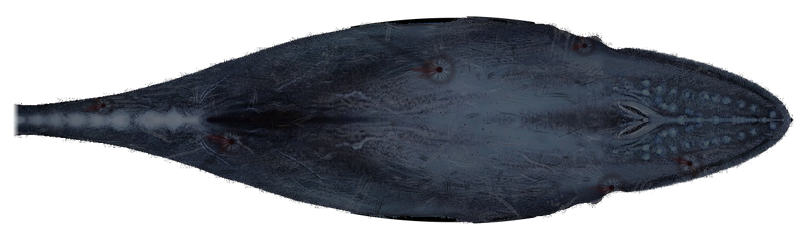
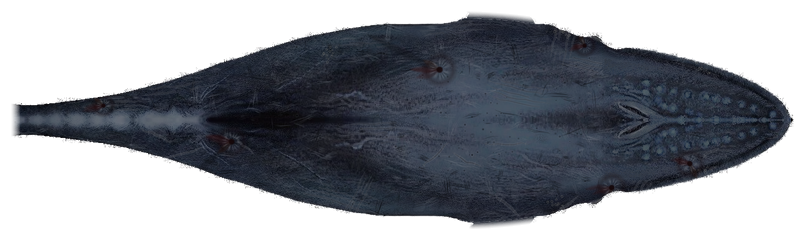
Void Whale: the Leviathan's fins and flukes blend into the body
The parts pipeline (scripts/leviathan-parts.py) now cuts the fin and fluke joins so they hold while the parts move:
- Under the fins the body edge is the real edge wherever the flank shows (the fit only across each fin's actual root,
  bent onto the real edge at both ends): the fitted curve used to sit 4-6 px outside the narrower flank behind the
  roots, and that band was filled opaque black (keyed-out background) - the dark notch / step on the body's edge.
- The edge band under each root is repainted with mirrored hide (shading taken out and put back, lit from above),
  which also runs into the fin's base; the body carries a fillet of the fin's base over the root instead of a hard
  straight line.
- Each fin carries a deep (24 ref px) strip of hide under its whole root, a little past its ends, so rowing never
  opens a gap or a dark sliver.
- The flukes: the stalk's shading continues past the root and eases into the flukes' (no tone step); the stalk part
  under the body is tapered by more than the sweep turns it; the body's stalk end fades over the join at the stalk's
  own width.
- The fin-through harpoon's entry sits 5 ref px inside the chipped trailing edge (the atlas is unchanged).
LEV_FIN_SWEEP / LEV_FLUKE_SWEEP exported from the rig; the void whale art test checks the rim under the fins is hide,
the root strips cover the rowing lift and the fluke stalk stays inside the stalk through the sweep. Render only.
[…]

diff --git a/game/src/render/leviathanParts.ts b/game/src/render/leviathanParts.ts
@@ -22,19 +22,19 @@ export interface LevPart {
 }
 
 export const LEV_PARTS: { finL: LevPart; finR: LevPart; fluke: LevPart } = {
-    finL: { url: '/art/leviathan/fin-left.png', w: 183, h: 147, ax: 0.7612, ay: 0.9215, rootX: 500.5, rootY: 20.3 },
-    finR: { url: '/art/leviathan/fin-right.png', w: 165, h: 148, ax: 0.7500, ay: 0.0748, rootX: 503.1, rootY: 219.3 },
+    finL: { url: '/art/leviathan/fin-left.png', w: 180, h: 156, ax: 0.7930, ay: 0.8666, rootX: 501.5, rootY: 19.9 },
+    finR: { url: '/art/leviathan/fin-right.png', w: 175, h: 156, ax: 0.7968, ay: 0.1265, rootX: 504.3, rootY: 220.4 },
     fluke: { url: '/art/leviathan/fluke.png', w: 187, h: 270, ax: 0.8855, ay: 0.4976, rootX: 20.0, rootY: 120.0 },
 };
 
 /** Body half-width (px) at u = k / 40 (0 the fluke root … 1 the snout tip). */
-export const LEV_HALF_PROFILE: readonly number[] = [17.33, 15.44, 19.54, 20.48, 22.37, 25.84, 29.93, 35.61, 40.65, 46.64, 54.83, 62.08, 67.12, 72.47, 80.98, 84.45, 87.91, 92.64, 95.63, 98.18, 100.01, 101.25, 101.82, 101.72, 100.94, 99.48, 97.41, 94.58, 91.38, 84.13, 83.5, 71.53, 71.84, 69.32, 64.91, 59.55, 53.57, 46.95, 38.76, 26.78, 0.0];
+export const LEV_HALF_PROFILE: readonly number[] = [17.33, 15.44, 19.54, 20.48, 22.37, 25.84, 29.93, 35.61, 40.65, 46.64, 54.83, 62.08, 67.12, 72.47, 80.98, 84.45, 87.91, 92.64, 93.95, 96.38, 95.79, 96.02, 96.74, 101.63, 101.69, 100.3, 98.3, 95.9, 91.38, 84.13, 83.5, 71.53, 71.84, 69.32, 64.91, 59.55, 53.57, 46.95, 38.76, 26.78, 0.0];
 
 /** Outlines (x0, y0, x1, y1, …; body texture px, unbent) of the fins and the flukes: the galaxy icon's shapes. */
 export const LEV_PART_OUTLINES: { finL: number[]; finR: number[]; fluke: number[] } = {
-    finL: [496.9, -36.5, 500.8, -29.7, 520.9, -13.9, 524.2, 2.1, 528.7, 25.7, 510.6, 29.6, 493.0, 27.7, 479.0, 26.8, 466.4, 11.5, 458.2, 4.7, 451.9, -1.4, 447.3, -7.8, 443.5, -13.5, 440.2, -19.0, 438.3, -24.8, 436.5, -30.6, 435.4, -36.5, 434.6, -42.8, 432.3, -50.7, 428.6, -61.8, 395.4, -107.6, 419.2, -107.2, 440.2, -99.8, 455.2, -92.9, 466.4, -83.0, 473.5, -71.8, 479.5, -67.9, 485.1, -64.4, 489.8, -59.8, 490.1, -52.3, 493.2, -47.6, 494.9, -42.2],
-    finR: [498.2, 276.2, 495.1, 282.1, 492.9, 287.5, 490.2, 292.6, 487.6, 298.1, 484.8, 304.9, 479.3, 309.0, 473.3, 314.5, 465.7, 323.2, 455.1, 329.2, 441.8, 334.0, 416.5, 349.8, 392.8, 349.1, 428.7, 300.9, 431.5, 290.4, 437.7, 281.8, 435.7, 276.2, 436.7, 270.5, 439.3, 265.3, 440.3, 259.3, 443.4, 253.9, 447.1, 248.4, 451.7, 242.5, 457.8, 236.5, 465.7, 229.7, 477.4, 217.4, 491.7, 213.4, 509.0, 211.4, 528.3, 213.6, 518.1, 241.2, 522.0, 252.9, 501.0, 269.2],
-    fluke: [39.1, 120.0, 38.9, 132.0, 17.4, 136.1, 7.7, 139.4, 1.9, 143.3, -3.1, 147.4, -8.0, 152.3, -13.6, 159.2, -21.4, 169.5, -35.0, 188.2, -64.3, 223.5, -109.2, 251.4, -121.8, 220.4, -119.5, 185.6, -109.6, 156.5, -96.4, 134.9, -72.4, 120.0, -96.4, 105.1, -109.2, 83.6, -119.5, 54.4, -121.5, 19.9, -108.3, -10.1, -64.1, 17.0, -35.0, 51.8, -21.4, 71.0, -13.6, 80.8, -8.0, 87.7, -3.3, 93.0, 1.2, 97.4, 7.3, 100.8, 16.0, 104.5, 38.9, 108.0],
+    finL: [499.5, -32.1, 505.3, -24.8, 525.3, -8.5, 525.5, 6.0, 535.7, 35.1, 514.4, 36.5, 496.1, 34.4, 481.8, 34.6, 468.5, 33.4, 460.9, 6.2, 454.7, 1.2, 449.9, -4.2, 447.0, -10.5, 442.7, -14.8, 439.9, -20.2, 438.1, -26.0, 437.0, -32.1, 434.2, -38.9, 433.0, -46.8, 431.9, -56.5, 393.9, -106.7, 417.7, -108.1, 440.4, -100.0, 457.4, -88.0, 468.5, -82.1, 476.1, -70.3, 482.7, -66.3, 487.7, -60.8, 489.7, -53.3, 492.6, -48.2, 495.3, -43.2, 496.5, -37.6],
+    finR: [497.7, 272.0, 496.6, 277.6, 492.7, 282.0, 493.2, 288.4, 490.2, 293.6, 488.4, 301.5, 483.4, 307.6, 476.3, 310.3, 468.7, 321.5, 457.8, 326.4, 442.8, 334.4, 417.6, 348.5, 391.2, 349.4, 435.0, 294.5, 433.1, 286.7, 434.3, 278.8, 437.2, 272.0, 438.3, 266.0, 440.0, 260.1, 442.9, 254.8, 446.4, 249.7, 450.6, 245.0, 456.6, 242.9, 461.0, 233.3, 468.7, 226.0, 481.6, 206.8, 495.7, 206.9, 513.7, 204.7, 535.8, 204.8, 525.6, 233.9, 524.6, 248.9, 506.4, 264.5],
+    fluke: [39.1, 120.0, 32.1, 130.6, 17.4, 136.1, 7.7, 139.4, 1.9, 143.3, -3.1, 147.4, -8.0, 152.3, -13.6, 159.2, -21.4, 169.5, -35.0, 188.2, -64.3, 223.5, -109.2, 251.4, -121.8, 220.4, -119.5, 185.6, -109.6, 156.5, -96.4, 134.9, -72.4, 120.0, -96.4, 105.1, -109.2, 83.6, -119.5, 54.4, -121.5, 19.9, -108.3, -10.1, -64.1, 17.0, -35.0, 51.8, -21.4, 71.0, -13.6, 80.8, -8.0, 87.7, -3.3, 93.0, 1.2, 97.4, 7.3, 100.8, 16.0, 104.5, 30.6, 109.7],
 };
 
 export interface LevGlowSpot {
@@ -221,7 +221,7 @@ export const LEV_HARPOONS: readonly LevHarpoon[] = [
     { part: 'body', x: 585.0, y: 46.0, ang: -2.0595, fx: 4, fy: 89, fw: 71, fh: 25, ax: 0.3152, ay: 0.5100, attach: 46.0, line: null },
     { part: 'body', x: 232.0, y: 142.0, ang: 2.4435, fx: 4, fy: 118, fw: 148, fh: 36, ax: 0.1734, ay: 0.5058, attach: 119.2, line: { fx: 4, fy: 158, fw: 170, fh: 8, len: 170 } },
     { part: 'body', x: 104.0, y: 106.0, ang: -2.4435, fx: 4, fy: 170, fw: 64, fh: 30, ax: 0.3326, ay: 0.5083, attach: 40.0, line: null },
-    { part: 'finL', x: 429.1, y: -61.5, ang: 3.2812, fx: 4, fy: 204, fw: 195, fh: 27, ax: 0.4915, ay: 0.5111, attach: 90.0, line: { fx: 4, fy: 235, fw: 118, fh: 8, len: 118 } },
+    { part: 'finL', x: 431.0, y: -61.3, ang: 3.2812, fx: 4, fy: 204, fw: 195, fh: 27, ax: 0.4915, ay: 0.5111, attach: 90.0, line: { fx: 4, fy: 235, fw: 118, fh: 8, len: 118 } },
     { part: 'fluke', x: -52.0, y: 176.0, ang: 2.8972, fx: 4, fy: 247, fw: 125, fh: 30, ax: 0.1878, ay: 0.5097, attach: 98.3, line: { fx: 4, fy: 281, fw: 92, fh: 8, len: 92 } },
     { part: 'finR', x: 470.0, y: 272.0, ang: 2.1642, fx: 4, fy: 293, fw: 60, fh: 24, ax: 0.3548, ay: 0.5021, attach: 36.0, line: null },
     { part: 'body', x: 690.0, y: 164.0, ang: 1.1170, fx: 4, fy: 321, fw: 111, fh: 28, ax: 0.2213, ay: 0.5054, attach: 78.0, line: { fx: 4, fy: 353, fw: 38, fh: 8, len: 38 } },

diff --git a/game/test/scenarioThreatFramework.test.ts b/game/test/scenarioThreatFramework.test.ts
@@ -52,6 +52,7 @@ import { peekVoidWhaleState, referenceHyperSpeed, voidWhalePeriodic, voidWhaleSt
 import { paintWounds, woundCount, woundKey } from '../src/render/whaleWounds';
 import { LEV_H, LEV_W, leviathanSilhouette, levHalf, levU } from '../src/render/leviathanArt';
 import { LEV_BODY_URL, LEV_GLOW_SPOTS, LEV_HARPOONS, LEV_HARPOON_URL, LEV_PARTS } from '../src/render/leviathanParts';
+import { LEV_FIN_SWEEP, LEV_FLUKE_SWEEP } from '../src/render/leviathanRig';
 import { decodePng } from './helpers/pngDecode';
 import { peekWreckageState } from '../src/sim/scenario/wreckage/common';
 import {
@@ -867,6 +868,69 @@ describe('void whale', () => {
         // Same cuts, different colour: open gashes are red, healed scars pale and grey.
         expect(redness(fresh)).toBeGreaterThan(redness(healed));
     }, 300000);
+
+    it('fin and fluke joins: real hide under every fin root (no dark notch), the root strips and the fluke stalk cover the stroke', () => {
+        const pub = (url: string): string => `${__dirname}/../public${url}`;
+        const body = decodePng(pub(LEV_BODY_URL));
+        const a = (img: { width: number; data: Uint8Array | Uint8ClampedArray }, x: number, y: number): number => img.data[(y * img.width + x) * 4 + 3];
+        const lum = (x: number, y: number): number => {
+            const i = (y * body.width + x) * 4;
+            return (body.data[i] + body.data[i + 1] + body.data[i + 2]) / 3;
+        };
+        // The body's edge row in a column (side -1 the left flank, from the top; +1 the right flank, from the bottom)
+        // and the hide's luminance just inside it.
+        const edgeRow = (x: number, side: -1 | 1): number => {
+            for (let k = 0; k < LEV_H / 2; k++) {
+                const y = side < 0 ? k : LEV_H - 1 - k;
+                if (a(body, x, y) > 200) return y;
+            }
+            return -1;
+        };
+        const rim = (x: number, side: -1 | 1): number => {
+            const e = edgeRow(x, side);
+            let s = 0;
+            for (let k = 0; k < 5; k++) s += lum(x, e - side * k);
+            return s / 5;
+        };
+        const all: number[] = [];
+        for (let x = 100; x < 700; x++) all.push(rim(x, -1), rim(x, 1));
+        all.sort((p, q) => p - q);
+        const median = all[all.length >> 1];
+        for (const [key, side] of [['finL', -1], ['finR', 1]] as const) {
+            const p = LEV_PARTS[key];
+            const fin = decodePng(pub(p.url));
+            let roots = 0;
+            for (let x = Math.max(100, Math.ceil(p.rootX - p.ax * p.w)); x < Math.min(700, p.rootX + (1 - p.ax) * p.w); x++) {
+                // Under and beside the fin the flank's rim is hide, not keyed-out background or a dark patch.
+                expect(rim(x, side)).toBeGreaterThan(0.45 * median);
+                // Where the fin meets the edge, the strip of hide it carries under the body is deeper than its rowing
+                // tips that column out of the flank: no gap opens at any point of the stroke.
+                const fx = Math.round(x - p.rootX + p.ax * p.w);
+                const fy = Math.round(edgeRow(x, side) - p.rootY + p.ay * p.h);
+                if (fx < 0 || fx >= fin.width || fy - 3 < 0 || fy + 3 >= fin.height || a(fin, fx, fy + side * 3) <= 200) continue;
+                roots++;
+                let d = 0;
+                while (fy - side * d >= 0 && fy - side * d < fin.height && a(fin, fx, fy - side * d) > 200) d++;
+                expect(d).toBeGreaterThanOrEqual(Math.abs(x - p.rootX) * Math.sin(LEV_FIN_SWEEP * 1.05) + 1);
+            }
+            expect(roots).toBeGreaterThan(40);
+        }
+        // The flukes' stalk under the body stays inside the stalk's edge however far the sweep turns them.
+        const fp = LEV_PARTS.fluke;
+        const fluke = decodePng(pub(fp.url));
+        let under = 0;
+        for (let fy = 0; fy < fluke.height; fy++) {
+            for (let fx = 0; fx < fluke.width; fx++) {
+                const x = fx - fp.ax * fp.w + fp.rootX;
+                if (x <= fp.rootX || a(fluke, fx, fy) <= 128) continue;
+                under++;
+                const y = fy - fp.ay * fp.h + fp.rootY;
+                const turned = Math.abs(y - LEV_H / 2) + (x - fp.rootX) * Math.sin(LEV_FLUKE_SWEEP);
+                expect(turned).toBeLessThanOrEqual(levHalf(levU(x)) + 1.5);
+            }
+        }
+        expect(under).toBeGreaterThan(100);
+    });
 
     it('harpoon art: 5-9 old harpoons pinned in the hide, fins and flukes, their sprites and lines in the atlas', () => {
         const pub = (url: string): string => `${__dirname}/../public${url}`;

diff --git a/game/src/render/leviathanRig.ts b/game/src/render/leviathanRig.ts
@@ -75,6 +75,10 @@ export function leviathanTextures(imgs: LeviathanImages | null): LeviathanTextur
 export const LEV_BEAT_S = 8;
 /** Seconds for the glow ripple to run from snout to tail. */
 export const LEV_GLOW_S = 3.2;
+/** The flukes' sweep and the pectoral fins' rowing swing (rad, at full speed): the parts' joins are cut to cover them
+ * (scripts/leviathan-parts.py). */
+export const LEV_FLUKE_SWEEP = 0.26;
+export const LEV_FIN_SWEEP = 0.16;
 const SEGMENTS = 30;
 const CY = LEV_H / 2;
 /** Points along each harpoon's trailing line. */
@@ -217,14 +221,14 @@ export class LeviathanRig {
         const tail = this.carried(fp.rootX, fp.rootY);
         const stroke = Math.sin(w * t + ph - 0.9);
         this.fluke.position.set(tail.x, tail.y);
-        this.fluke.rotation = tail.ang + 0.26 * amp * stroke;
+        this.fluke.rotation = tail.ang + LEV_FLUKE_SWEEP * amp * stroke;
         this.fluke.scale.set(1 - 0.12 * amp * stroke * stroke, 1 - 0.03 * amp * Math.abs(stroke));
         // Pectoral fins: rowing slowly, swept forward and back together (mirrored), a little out of step.
         const row = w * 0.75 * t + ph;
         const fl = this.carried(LEV_PARTS.finL.rootX, LEV_PARTS.finL.rootY);
         const fr = this.carried(LEV_PARTS.finR.rootX, LEV_PARTS.finR.rootY);
-        const sweepL = 0.16 * Math.sin(row) * amp;
-        const sweepR = 0.16 * Math.sin(row + 0.35) * amp;
+        const sweepL = LEV_FIN_SWEEP * Math.sin(row) * amp;
+        const sweepR = LEV_FIN_SWEEP * Math.sin(row + 0.35) * amp;
         this.finL.position.set(fl.x, fl.y);
         this.finL.rotation = fl.ang + sweepL;
         this.finR.position.set(fr.x, fr.y);

diff --git a/game/scripts/leviathan-parts.py b/game/scripts/leviathan-parts.py
@@ -11,10 +11,14 @@ head to the left, on a flat grey background) into the rig's parts:
                                       harpoons' placements
 
 It keys the grey out (clean alpha, the grey unmixed from the edge pixels, no fringe), flips it, splits off the fins
-(the body edge under their roots is interpolated) and the flukes, tones it down to sit in the dark of space (darker,
-a little desaturated, the bright white fin tips and fluke patches compressed to a pale grey, the sides shaded) and
-scales it to about a large space port's pixel count. Before the cut it weathers the hide (an old, hunted animal: scuffs,
-scrapes, scars, worn patches, chipped fin / fluke edges, the scarred entries of the harpoons; leviathan_harpoons.py).
+and the flukes, tones it down to sit in the dark of space (darker, a little desaturated, the bright white fin tips and
+fluke patches compressed to a pale grey, the sides shaded) and scales it to about a large space port's pixel count.
+The joins are made to hold while the parts move: under each fin root the body edge is interpolated and its hide
+repainted (no keyed-out background or root shadow inside the edge), the hide runs out into the fin's base and the body
+carries a fillet over the root (no straight seam), each fin carries a deep strip of hide under its root (no gap as it
+rows), and the flukes' stalk is shaded like the body's and tapered under it (no step, nothing poking out as it sweeps).
+Before the cut it weathers the hide (an old, hunted animal: scuffs, scrapes, scars, worn patches, chipped fin / fluke
+edges, the scarred entries of the harpoons; leviathan_harpoons.py).
 Usage (needs Pillow + numpy):
 
   python3 scripts/leviathan-parts.py [reference=~/data/agent-tmp/leviathan/reference.webp]
@@ -78,10 +82,48 @@ for x in range(CROP[0], CROP[2]):
 fit_x = np.r_[np.arange(300, FIN_X[0]), np.arange(FIN_X[1], 950)]
 pt = np.polyfit(fit_x, top[fit_x], 3)
 pb = np.polyfit(fit_x, bot[fit_x], 3)
-for x in range(FIN_X[0], FIN_X[1]):
-    top[x] = np.polyval(pt, x)
-    bot[x] = np.polyval(pb, x)
-cy = float(np.nanmean((top[200:1200] + bot[200:1200]) / 2))
+# Under the fins: the real edge wherever the flank shows between a fin and the body (the solid run from the centreline
+# outward), and the fit only across each fin's root, where the fin is attached (bent onto the real edge at both ends of
+# the root, so the edge has no step). FIN_ROOT[side] = the root's columns (reference px).
+FIN_ROOT = {}
+# The centreline as measured across the plain fit (kept from the first cut: the glow spots and harpoons stay put).
+_t, _b = top.copy(), bot.copy()
+_t[FIN_X[0]:FIN_X[1]] = np.polyval(pt, np.arange(FIN_X[0], FIN_X[1]))
+_b[FIN_X[0]:FIN_X[1]] = np.polyval(pb, np.arange(FIN_X[0], FIN_X[1]))
+cy = float(np.nanmean((_t[200:1200] + _b[200:1200]) / 2))
+for side, edge, p in ((-1, top, pt), (1, bot, pb)):
+    xs = np.arange(FIN_X[0] - 12, FIN_X[1] + 12)
+    run = np.empty(len(xs))
+    for i, x in enumerate(xs):
+        y = int(round((np.polyval(pt, x) + np.polyval(pb, x)) / 2))
+        while filled[y + side, x]:
+            y += side
+        run[i] = y
+    fit = np.polyval(p, xs)
+    attached = np.convolve((run - fit) * side > 4, np.ones(9), mode='same') > 0
+    attached &= (xs >= FIN_X[0]) & (xs < FIN_X[1])
+    # The longest attached stretch is the root.
+    best, cur = (0, -1), None
+    for i in range(len(xs)):
+        if attached[i]:
+            cur = i if cur is None else cur
+            if i - cur > best[1] - best[0]:
+                best = (cur, i)
+        else:
+            cur = None
+    a, b = best[0] - 1, best[1] + 1
+    ra = float(np.mean(run[a - 3: a + 1] - fit[a - 3: a + 1]))
+    rb = float(np.mean(run[b: b + 4] - fit[b: b + 4]))
+    e = run.copy()
+    for i in range(a + 1, b):
+        k = (xs[i] - xs[a]) / (xs[b] - xs[a])
+        e[i] = fit[i] + ra * (1 - k) + rb * k
+    # A light smoothing (the edge fringe jitters the run by a pixel or so).
+    es = np.convolve(np.pad(e, 3, mode='edge'), np.ones(7) / 7, mode='valid')
+    for i, x in enumerate(xs):
+        if FIN_X[0] <= x < FIN_X[1]:
+            edge[x] = es[i]
+    FIN_ROOT[side] = (int(xs[a + 1]), int(xs[b - 1]))
 
 # --- Tone: darker, a touch desaturated, the whites compressed to a pale grey, sides shaded (lit from above).
 lum = (rgb * [0.3, 0.55, 0.15]).sum(2, keepdims=True)
@@ -94,8 +136,14 @@ tone *= comp
 yy = np.arange(H)[:, None]
 half = np.maximum(1, (bot - top) / 2)[None, :]
 across = np.clip((yy - cy) / half, -1.5, 1.5)
-body_cols = (np.arange(W) >= SNOUT_X - 5) & (np.arange(W) <= ROOT_X + 10)
+body_cols = (np.arange(W) >= SNOUT_X - 5) & (np.arange(W) <= ROOT_X)
 shade = np.where(body_cols[None, :], 0.72 + 0.28 * (1 - np.clip(np.abs(across), 0, 1) ** 2), 0.85)
+# Past the fluke root the stalk's shading runs on (its width at the root) and eases into the flukes' flat 0.85, so the
+# tone has no step where the flukes join the stalk.
+acrossS = np.clip((yy - cy) / max(1.0, (bot[ROOT_X] - top[ROOT_X]) / 2), -1.5, 1.5)
+shadeS = 0.72 + 0.28 * (1 - np.clip(np.abs(acrossS), 0, 1) ** 2)
+wFl = np.clip((np.arange(W)[None, :] - ROOT_X) / 60, 0, 1)
+shade = np.where(np.arange(W)[None, :] > ROOT_X, shadeS * (1 - wFl) + 0.85 * wFl, shade)
 tone *= shade[..., None]
 
 # --- The glowing dots (head V, snout line) and spine beads: bright blue-white blobs; dimmed in the hide, listed for
@@ -159,6 +207,36 @@ glows += spine_glows
 # Dim the blobs a little more in the hide: the glow comes from the additive sprites.
 tone = np.where(glowMask[..., None], tone * 0.85, tone)
 
+# --- The fin roots blended into the flank. Under each root (and a little past its ends) the edge band of the body is
+# repainted with the hide just inside it, mirrored about a line FILL_B px in (its shading taken out and that of the
+# destination put back, so the lighting from above stays right): no keyed-out background or fin-root shadow is left
+# inside the body edge. The same mirrored hide also runs a little way out into the base of the fin, fading into the fin's
+# own skin, so fin and flank are one surface where they meet (the body's fillet over the root, below, then matches it).
+FILL_B = 22  # mirror line (reference px in from the edge)
+FILL_G = 16  # how far into the fin base the hide runs (reference px)
+
+
+def ramp(x, a, b, r):
+    """1 inside [a, b], easing to 0 over r px beyond each end (smoothstep)."""
+    t = np.clip(np.minimum(x - (a - r), (b + r) - x) / r, 0, 1)
+    return t * t * (3 - 2 * t)
+
+
+Xc = np.arange(W)
+for side, edge in ((-1, top), (1, bot)):
+    r0, r1 = FIN_ROOT[side]
+    cols = np.arange(r0 - 24, r1 + 25)
+    lat = ramp(cols, r0 - 4, r1 + 4, 20)
+    for x, lw in zip(cols, lat):
+        e = edge[x]
+        ys_ = np.arange(int(e) - FILL_G - 2, int(e) + FILL_B + 3) if side < 0 else np.arange(int(e) - FILL_B - 2, int(e) + FILL_G + 3)
+        d = (ys_ - e) * -side  # inward distance from the edge
+        w = np.where(d >= 0, np.clip((FILL_B - d) / (FILL_B - 6), 0, 1), np.clip(1 + d / FILL_G, 0, 1) * alpha[ys_, x])
+        w = w * lw
+        src_y = np.round(e - side * (2 * FILL_B - d)).astype(int)
+        mir = tone[src_y, x] / shade[src_y, x][:, None] * shade[ys_, x][:, None]
+        tone[ys_, x] = tone[ys_, x] * (1 - w[:, None]) + mir * w[:, None]
+
 
 def to_tex(x, y):
     """Reference px -> body texture px (flipped: head toward +x)."""
@@ -185,7 +263,6 @@ def save_part(name, mask_alpha, x0, y0, x1, y1):
 os.makedirs(OUT, exist_ok=True)
 X = np.arange(W)[None, :]
 inBody = (yy >= top[None, :] - 0.5) & (yy <= bot[None, :] + 0.5)
-edgeSoft = np.clip(np.minimum(yy - top[None, :], bot[None, :] - yy) + 1.0, 0, 1)
 
 # --- The old wear and the harpoons' entry scars, painted on the toned picture before the cut (the chips bite into the
 # alpha of the fin and fluke edges).
@@ -209,11 +286,25 @@ avoid = np.asarray(Image.fromarray((glowMask * 255).astype(np.uint8)).filter(Ima
 avoid |= spineZone & (np.abs(yy - cy) < 14)
 alpha = harp.weather(tone, alpha, regions, chippable, avoid, to_ref, S, placed)
 
-# Body: inside the (interpolated) edge, snout to the fluke root (soft end on the stalk).
-bodyA = alpha * inBody * np.clip((ROOT_X + 10 - X) / 10, 0, 1)
+# Body: inside the edge, snout to the fluke root. Past the root the stalk runs on, only as wide as at the root, fading
+# out over the flukes' join (the flukes are drawn under it and match it there: no seam across the stalk).
+dIn = np.minimum(yy - top[None, :], bot[None, :] - yy)
+cS, hS = (top[ROOT_X] + bot[ROOT_X]) / 2, (bot[ROOT_X] - top[ROOT_X]) / 2
+endFade = np.clip((ROOT_X + 14 - X) / 16, 0, 1)
+stalkW = np.where(X > ROOT_X, np.clip((hS - np.abs(yy - cS)) / 3 + 0.5, 0, 1), 1.0)
+bodyA = alpha * inBody * endFade ** 1.5 * stalkW
+# Under the fins: the real alpha, trimmed softly at the edge; over each fin's root a fillet of the fin's base (the same
+# pixels as the fin there, fading out FILLET_F px over it), so the flank swells into the fin instead of a hard line
+# across its root.
+FILLET_F = 12
 inFins = (X >= FIN_X[0]) & (X < FIN_X[1])
-soft4 = np.clip(np.minimum(yy - top[None, :], bot[None, :] - yy) + 4.0, 0, 1)
-bodyA = np.where(inFins, np.minimum(soft4, alpha + edgeSoft), bodyA)
+bodyF = alpha * np.clip((dIn + 2) / 3, 0, 1)
+for side, edge in ((-1, top), (1, bot)):
+    r0, r1 = FIN_ROOT[side]
+    dOut = (edge[None, :] - yy) * -side
+    fil = ramp(X, r0 + 6, r1 - 6, 10) * np.clip(1 - dOut / FILLET_F, 0, 1) ** 1.6 * alpha
+    bodyF = np.maximum(bodyF, np.where((dOut > 0) & ((yy < cy) if side < 0 else (yy > cy)), fil, 0))
+bodyA = np.where(inFins, bodyF, bodyA)
 bx0 = int(round(SNOUT_X - (LEV_W - LEV_X1) / S))
 bx1 = bx0 + int(round(LEV_W / S))
 by0 = int(round(cy - LEV_H / 2 / S))
@@ -225,23 +316,29 @@ P = lambda m: np.pad(m, ((pad, pad), (pad, pad)))
 bw, bh = save_part('body.png', P(bodyA), bx0 + pad, by0 + pad, bx1 + pad, by1 + pad)
 assert (bw, bh) == (LEV_W, LEV_H), (bw, bh)
 
-# Fins: outside the body edge in the fins' columns, plus a strip of the hide under the root (so no gap opens when
-# they row).
-ROOT_IN = 12
+# Fins: outside the body edge in the fins' columns, plus a deep strip of the (blended) hide under the whole root, square
+# to its ends: rowing tips the root's ends up to ~6 texture px out of the flank, and the strip fills that, so no gap or
+# dark sliver opens between fin and body at any point of the stroke.
+ROOT_IN = 24
 parts = {}
 for name, side in (('fin-left.png', -1), ('fin-right.png', 1)):
     edge = top if side < 0 else bot
     # Where the fin leaves the body edge (its root), then the fin plus a strip of the hide just under that root.
-    touch = [x for x in range(FIN_X[0], FIN_X[1]) if alpha[int(edge[x]) + side * 10, x] > 0.8 and alpha[int(edge[x]) + side * 5, x] > 0.8]
-    t0, t1 = min(touch), max(touch)
-    depth = np.clip(np.minimum(X - t0, t1 - X) / 12, 0, 1) * ROOT_IN
-    # Beside the root the body's own fringe stays with the body (it reaches ~3 px past the fitted edge).
-    clear = np.where((X >= t0) & (X <= t1), 0, 4)
+    # (Every column where the fin's flesh meets the edge, the corners included: the longest such stretch.)
+    touch = [x for x in range(FIN_X[0], FIN_X[1]) if alpha[int(round(edge[x])) + side * 3, x] > 0.8]
+    spans = np.split(np.array(touch), np.nonzero(np.diff(touch) > 1)[0] + 1)
+    t0, t1 = (lambda sp: (int(sp[0]), int(sp[-1])))(max(spans, key=len))
+    depth = np.clip((np.minimum(X - t0, t1 - X) + 6) / 3, 0, 1) * ROOT_IN
+    # Beside the root the body's own fringe stays with the body (it reaches ~2 px past the edge).
+    clear = np.where((X >= t0) & (X <= t1), 0, 3)
     if side < 0:
         m = inFins & (yy < cy) & (yy < top[None, :] + depth - clear)
     else:
         m = inFins & (yy > cy) & (yy > bot[None, :] - depth + clear)
-    fa = alpha * m
+    # The strip runs a few px past the root's ends, its square ends a little soft (when the stroke tips an end out, it
+    # shows as the root's own flesh).
+    strip = (yy > top[None, :]) if side < 0 else (yy < bot[None, :])
+    fa = alpha * m * np.where(strip, np.clip((np.minimum(X - t0, t1 - X) + 6) / 4, 0, 1), 1.0)
     fy, fx = np.nonzero(fa > 0.05)
     x0, x1 = fx.min() - 2, fx.max() + 3
     y0, y1 = fy.min() - 2, fy.max() + 3
@@ -253,7 +350,11 @@ for name, side in (('fin-left.png', -1), ('fin-right.png', 1)):
 
 # Fluke: from a little before the root to the tips (it is drawn under the body, the stalk overlap hides the joint).
 FL0 = ROOT_X - 34
-fa = alpha * (X >= FL0) * np.clip((X - FL0) / 8, 0, 1)
+# Under the stalk it is narrowed toward FL0 (by more than its sweep turns it: 0.26 rad), so swinging it never pushes it
+# out past the stalk's edge.
+mc = (top + bot)[None, :] / 2
+inStalk = np.clip((bot - top)[None, :] / 2 - (ROOT_X - X) * 0.3 - 1.5 - np.abs(yy - mc) + 0.5, 0, 1)
+fa = alpha * (X >= FL0) * np.clip((X - FL0) / 8, 0, 1) * np.where(X < ROOT_X, inStalk, 1.0)
 fy, fx = np.nonzero(fa > 0.05)
 x1 = fx.max() + 3
 y0, y1 = fy.min() - 2, fy.max() + 3

diff --git a/game/scripts/leviathan_harpoons.py b/game/scripts/leviathan_harpoons.py
@@ -529,7 +529,8 @@ def place(alpha, to_ref, to_tex, S):
             while inside(rx - dx * s0, ry - dy * s0):
                 s0 += 0.5
             p['far'] = (rx - dx * (s0 - 2), ry - dy * (s0 - 2))
-            rx, ry = rx + dx * (s1 - 2), ry + dy * (s1 - 2)
+            # The entry a little inside the (ragged, chipped) trailing edge, so it sits on the fin's flesh.
+            rx, ry = rx + dx * (s1 - 5), ry + dy * (s1 - 5)
             p['gap'] = (s0 + s1 - 4) * S
         p['rx'], p['ry'] = rx, ry
         p['rang'] = math.atan2(dy, dx)

diff --git a/game/docs/release-notes.md b/game/docs/release-notes.md
@@ -6,6 +6,7 @@ Notes for the next release, to copy into the GitHub release (RELEASING.md step 2
 
 - **Mothball slot: left-click opens the port list.** On the selection panel, clicking Mothball now lists your space ports (best one first, marked ★) instead of sending the force straight to the best port, as the Fleets and Ships screens already did. Reactivate and Cancel still act at once.
 - **Crisis interactions: reputation, opportunists, the council, Purifier refugees.** The loose crisis factions (the Purifier, the Cult, the Hive, Generation Ships, and the Grey Tide, Ghost Armada, Dark Farms, Robot Mutiny, Hollow Fleet and Probe Swarm) now draw reactions from the rest of the galaxy, with no new screens: (1) *Reputation* (needs the Reputation add-on): an empire that fights a crisis (kills its ships, loses ships to it, keeps shooting at it) earns a small, once-only +3 regard from every empire that has met it and is not at war with it; an empire that sits a crisis out for two years (once the faction has hurt someone) while it is within three sectors of its colonies loses 2 with the same empires; both fade by 1 a year, and a human empire is told. (2) *Opportunists*: when a crisis hits an empire (a colony risen to the faction, invaded or destroyed) and a rival that was not already at war with it declares war on it within 180 days, both empires get a message ("X takes advantage of the Cult rising in Y"), the whole galaxy gets a news line (so the event log has it), and, with Reputation on, the victim's regard for the rival drops by 3. It only reports what the stock AI does. (3) *The Galactic Council* (and the Interstellar Diet) can table, through its existing motion kinds, declaring a loose crisis faction a threat to the galaxy (the joint defence; once passed, AI members that have met a non-pirate faction declare war on it, a joint war), sanctioning it (non-pirate factions), and condemning an empire seen helping it (the exposed waker of the Purifier, or a treaty partner of the faction). Only in a game with a council. (4) *Purifier refugees*: when the Purifier destroys a populated colony, 20% of each race survives and flees to the nearest colonies (the owner's own first, then neighbours not at war with it): as ordinary refugee convoys when Refugees & Demographics is on, otherwise at once. Receiving colonies keep the people as extra population and take a crowding hit on approval (up to -4, fading over 18 months).
+- **Void Whale: the Leviathan's fins and flukes join its body cleanly.** The dark notch and the black strip along the body's edge under the pectoral fins are gone (the edge there was filled with keyed-out background), and the hard straight seam where each fin met the body is now a soft join: the flank's hide runs into the fin's base and swells over it, matching in texture, colour, lighting and weathering. The fins carry a deeper strip of hide under their roots, so no gap or dark sliver opens as they row forward and back, and the flukes' stalk now matches the body's shading where they join and stays inside the stalk through the whole tail stroke. The harpoons and wounds are unchanged. Art only (regenerated by scripts/leviathan-parts.py).
 - **Coordinated landings (new Gameplay change, "Land together" on the Other Empires page; on by default whenever Smarter AI is on):** troop ships invading the same planet now land together. A transport that reaches the planet holds in orbit with its troops aboard until every other transport of its empire attacking that planet has arrived (or 25 game days after the first one), then they all unload at once instead of trickling onto the planet one by one. It applies to every empire, you included; pirate raids and pirate troops are never held, and transports that are destroyed, retreat or are given other orders drop out of the group. With the box unticked (or Smarter AI off and the box never ticked) the original behaviour is unchanged; ticking or unticking it yourself overrides the Smarter AI default. Also in the Gameplay changes master switch.
 - **Game Editor: spawn threats.** The Game Editor window now has a "Spawn a threat against your empire" list (The Purifier: it wakes now and hunts your race; Generation Ships: the first world ship arrives now aimed at one of your colonies; The Cult: it converts the governors of enough of your colonies, creating governors where you have none, so the theocracy rises within a couple of months) and a "Spawn a galactic threat" list (Hive, Grey Tide, Silence, Doppelgangers, Exchange, Hollow Fleet, Dead Probe Swarm, Void Whale, Corporate Coup, and, when the add-on's data was loaded at game start, Dark Farms, Robot Mutiny and Time Bomb). Galactic ones start now and are placed near your empire where they have a choice. It works even if the add-on was off when the game started (it is switched on from then on, and its message texts are loaded, also when you load the save). A threat that is already running or over shows a short note instead of a button; Dark Farms, Robot Mutiny and Time Bomb need their add-on on at game start (they need its race / research data), and Corporate Coup needs a chartered company. It is a journaled command, so it works in multiplayer and replays.
 - **Scorched earth moved to work in progress.** It is no longer part of the Living Galaxy pack and is listed under Work in progress on the add-on page.
